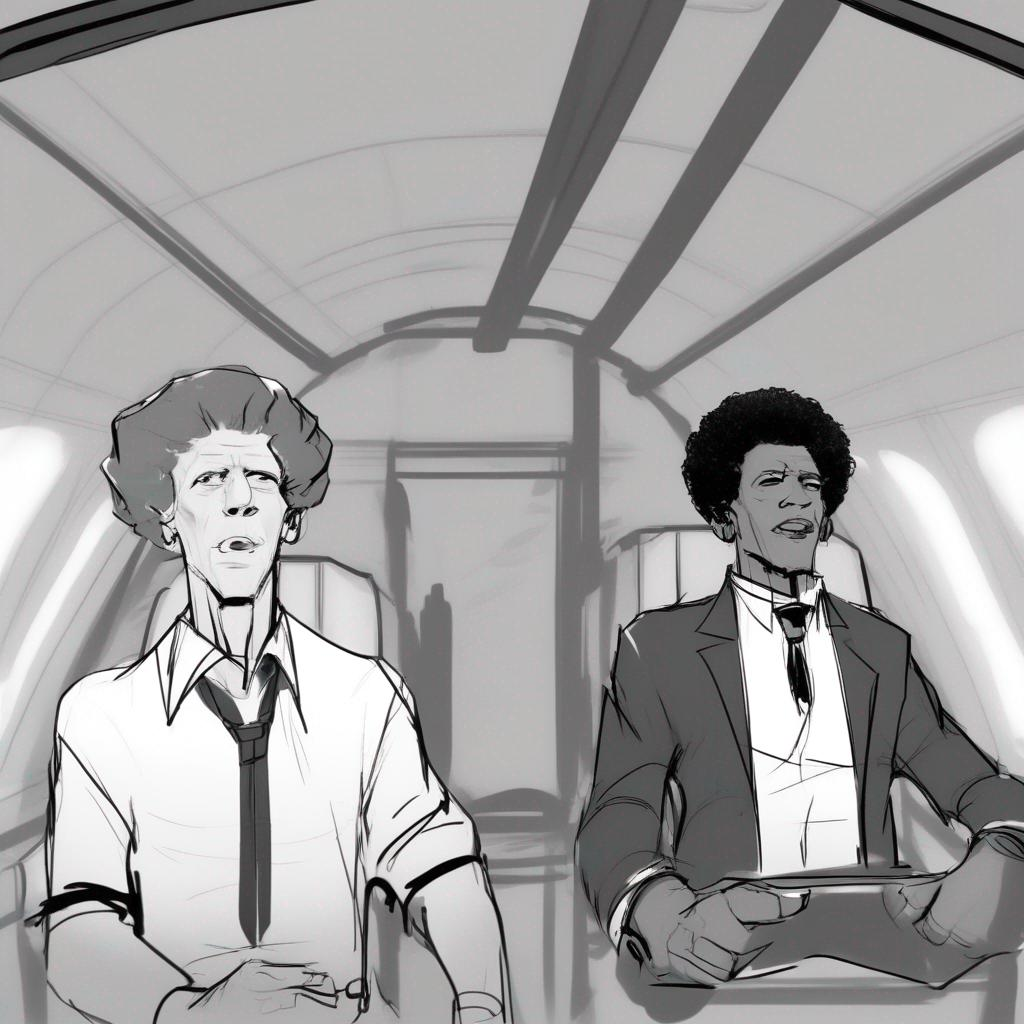
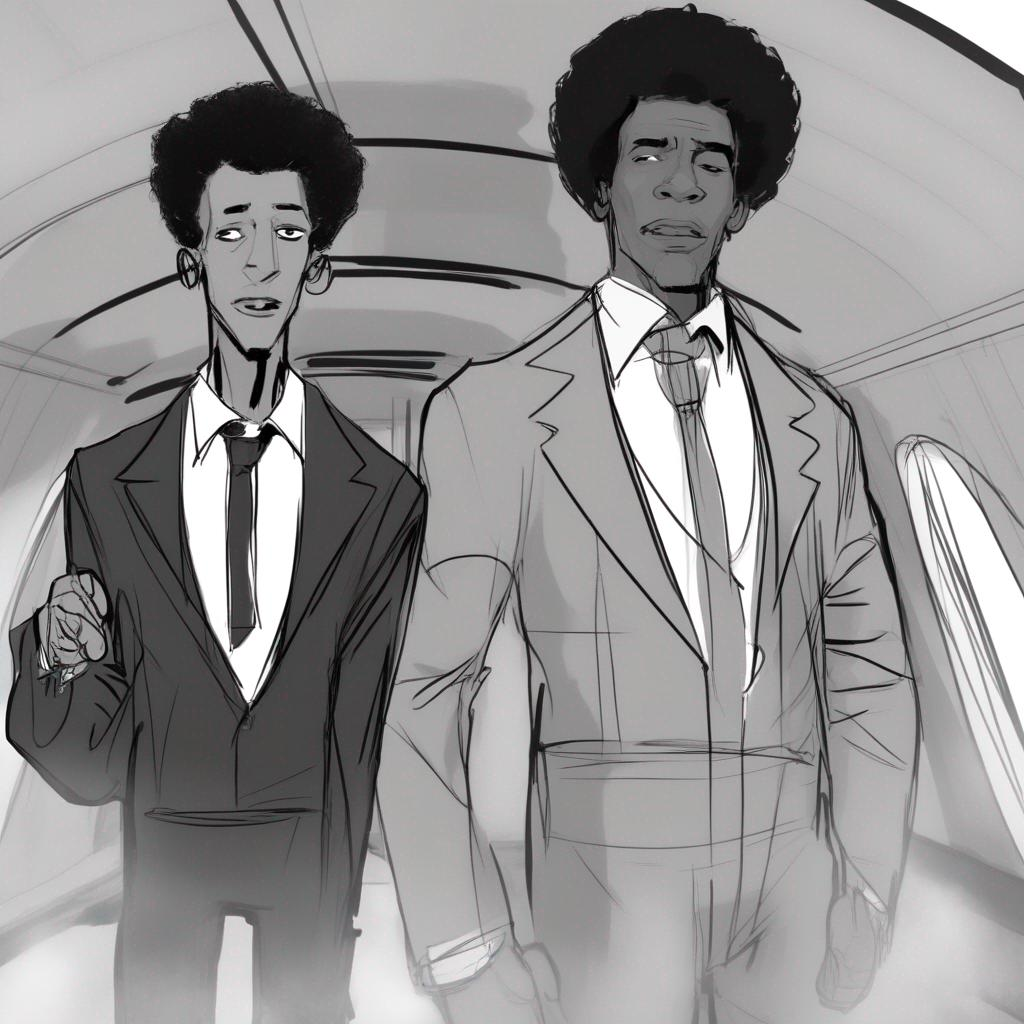
asldfjas

diff --git a/frontend/app/sketch/page.js b/frontend/app/sketch/page.js
@@ -1,9 +1,94 @@
+"use client";
 import React from 'react';
-import Head from 'next/head';
+import Button from '/components/ui/Button';
+import {useState, useEffect} from 'react';
+import CharacterPopup from '../../components/ui/CharacterPopup';
+import ScenarioPopup from '../../components/ui/ScenarioPopup';
+import MoonLoader from 'react-spinners/MoonLoader'
 
-export const metadata = {
-  title: "CineSketcher | Sketch",
-  description: "A simple storyboard sketcher!",
 
+
+
+const page = () => {
+  const [characterArray, setCharacterArray] = useState([]);
+  const [scenarioArray, setScenarioArray] = useState([]);
+  const [imageUrlArray, setImageUrlArray] = useState([]);
+  const [started, setStarted] = useState(false);
+  
+  const [characterPopup, setCharacterPopup] = useState(false);
+  const [scenarioPopup, setScenarioPopup] = useState(false);
+
+  const [characterIndex, setCharacterIndex] = useState(null);
+  const [scenarioIndex, setScenarioIndex] = useState(null);
+
+  const createNewCharacter = () => {
+    const character = {
+      index: characterArray.length,
+      name: "",
+      description: "",
+    }
+    setCharacterArray(prevCharacterArray => [...prevCharacterArray, character]);
+  }
+
+  const createNewScenario = () => {
+    const scenario = {
+      index: scenarioArray.length,
+      imageUrl: "",
+      description: "",
+    }
+    setScenarioArray(prevScenarioArray => [...prevScenarioArray, scenario]);
+  }
+
+  
+
+
+  return (
+    <>
+    <CharacterPopup show={characterPopup} onClose={()=>{setCharacterPopup(false); setCharacterIndex(null);}} characterArray={characterArray} characterIndex={characterIndex}/>
+    <ScenarioPopup show={scenarioPopup} onClose={()=>{setScenarioPopup(false); setScenarioIndex(null);}} scenarioArray={scenarioArray} scenarioIndex={scenarioIndex} imageArray={imageUrlArray}/>
+      <div className="bg-white min-h-screen p-5">
+        <header className="flex justify-between items-center bg-white text-dark">
+          <a href="/">
+          <h1 className="text-2xl">CineSketcher</h1>
+          </a>
+        </header>
+        <div className="w-full flex items-center flex-col">
+          <div className="mt-6 w-[1374px]">
+              <div className="text-black text-xl text-center">Characters</div>
+              <div className="text-gray text-sm text-center">Add characters and their visual descriptions!</div>
+              <div className="flex flex-row flex-wrap mt-8 w-full outline outline-gray outline-2 rounded-lg px-4 pb-8 space-x-4 space-y-8">
+                <div className={`mt-8 ml-4 h-[150px] w-[250px] bg-gray text-white rounded-lg flex justify-center items-center text-5xl cursor-pointer ${characterPopup||scenarioPopup ? "":"transform transition-transform duration-300 hover:scale-105"}`} onClick={()=>{createNewCharacter();setCharacterPopup(true);setScenarioPopup(false);setCharacterIndex(characterArray.length);}}>
+                  +
+                </div>
+                {characterArray.map((character, index) => (
+                  <div key={index} className={`h-[150px] w-[250px] outline outline-gray outline-2 rounded-lg p-4 text-black rounded-lg flex justify-center items-center text-lg cursor-pointer ${characterPopup||scenarioPopup ? "":"transform transition-transform duration-300 hover:scale-105"}`} onClick={()=>{setCharacterPopup(true);setScenarioPopup(false);setCharacterIndex(index);}}>
+
+                  </div>
+                ))}
+              </div>
+          </div>
+                {/* <MoonLoader color="#99947f" /> */}
+          <div className="mt-6 w-[1374px]">
+              <div className="text-black text-xl text-center">Storyboard</div>
+              <div className="text-gray text-sm text-center">Describe your scenes!</div>
+              <div className="flex flex-row flex-wrap mt-8 w-full outline outline-gray outline-2 rounded-lg px-4 pb-8 space-x-4 space-y-8">
+                <div className={`mt-8 ml-4 h-[250px] w-[250px] bg-gray text-white rounded-lg flex justify-center items-center text-5xl cursor-pointer ${characterPopup||scenarioPopup ? "":"transform transition-transform duration-300 hover:scale-105"} `} onClick={()=>{createNewScenario();setScenarioPopup(true);setScenarioIndex(characterArray.length);setCharacterPopup(false);}}>
+                  +
+                </div>
+                {scenarioArray.map((scenario, index) => (
+                  <div key={index}>
+                    <div className={`h-[250px] w-[250px] outline outline-gray outline-2 rounded-lg p-4 text-black rounded-lg flex justify-center items-center text-lg cursor-pointer ${characterPopup||scenarioPopup ? "":"transform transition-transform duration-300 hover:scale-105"}`} onClick={()=>{setScenarioPopup(true);setScenarioIndex(index);setCharacterPopup(false);}}>
+
+                    </div>
+                  </div>
+                ))}
+              </div>
+          </div>
+        </div>
+        
+      </div>
+    </>
+  );
 };
 
+export default page;

diff --git a/frontend/components/ui/ScenarioPopup.js b/frontend/components/ui/ScenarioPopup.js
@@ -1,0 +1,80 @@
+"use client";
+import React, { useEffect, useState } from 'react';
+import Button from '/components/ui/Button';
+
+const  ScenarioPopup = ({ show, onClose, scenarioArray, ScenarioIndex, imageArray }) => {
+    const [showPopUp, setShowPopup] = useState(show);
+    const [animate, setAnimate] = useState(false);
+
+    useEffect(() => {
+        let animationTimeout;
+        if (show) {
+        setShowPopup(true);
+        animationTimeout = setTimeout(() => setAnimate(true), 10);
+        } else {
+        setAnimate(false);
+        animationTimeout = setTimeout(() => {
+            setShowPopup(false);
+        }, 300);
+        }
+    
+        return () => {
+        clearTimeout(animationTimeout);
+        };
+    }, [show]);
+    
+
+    const handleClose = (event) => {
+        if (event.target.id === 'popupBackground') {
+        setAnimate(false);
+        setTimeout(() => {
+            setShowPopup(false);
+            if (onClose) {
+            onClose();
+            }
+        }, 300);
+        }
+    };
+
+    const backgroundStyle = {
+        transition: 'opacity 300ms ease-in-out',
+        opacity: animate ? 1 : 0,
+    };
+
+    const modalStyle = {
+        transition: 'transform 300ms ease-in-out',
+        transform: animate ? 'translateY(0)' : 'translateY(-100%)',
+    };
+
+    return (
+        <>
+        {showPopUp &&
+        <div id="popupBackground" onClick={handleClose} style={backgroundStyle} className="fixed inset-0 bg-dark bg-opacity-75 flex justify-center items-center backdrop-filter backdrop-blur-sm">
+                <div style={modalStyle} className="bg-white p-4 w-[700px] rounded shadow-xl" onClick={e => e.stopPropagation()}>
+                    <h2 className="text-dark text-lg font-bold mb-4">Scenario</h2>
+                    <div className="space-y-4">
+                        <div>
+                        <label className="text-gray block mb-2">Character Name</label>
+                        <input
+                            type="text"
+                            className="w-full px-4 py-2 rounded border border-gray focus:outline-none focus:border-dark text-gray"
+                        />
+                        </div>
+                        <div>
+                        <label htmlFor="password" className="text-gray block mb-2">Character Description</label>
+                        <textarea
+                            type="text"
+                            className="w-full px-4 py-2 rounded border border-gray focus:outline-none focus:border-dark text-gray"
+                        />
+                        </div>
+                        
+                        <Button text="generate" classes="w-full text-base" />
+                    </div>
+                </div>
+        </div>
+        }
+        </>
+    );
+};
+
+export default ScenarioPopup;

diff --git a/frontend/components/ui/CharacterPopup.js b/frontend/components/ui/CharacterPopup.js
@@ -1,0 +1,80 @@
+"use client";
+import React, { useEffect, useState } from 'react';
+import Button from '/components/ui/Button';
+
+const  CharacterPopup = ({ show, onClose, characterArray, characterIndex }) => {
+    const [showPopUp, setShowPopup] = useState(show);
+    const [animate, setAnimate] = useState(false);
+
+    useEffect(() => {
+        let animationTimeout;
+        if (show) {
+        setShowPopup(true);
+        animationTimeout = setTimeout(() => setAnimate(true), 10);
+        } else {
+        setAnimate(false);
+        animationTimeout = setTimeout(() => {
+            setShowPopup(false);
+        }, 300);
+        }
+    
+        return () => {
+        clearTimeout(animationTimeout);
+        };
+    }, [show]);
+    
+
+    const handleClose = (event) => {
+        if (event.target.id === 'popupBackground') {
+        setAnimate(false);
+        setTimeout(() => {
+            setShowPopup(false);
+            if (onClose) {
+            onClose();
+            }
+        }, 300);
+        }
+    };
+
+    const backgroundStyle = {
+        transition: 'opacity 300ms ease-in-out',
+        opacity: animate ? 1 : 0,
+    };
+
+    const modalStyle = {
+        transition: 'transform 300ms ease-in-out',
+        transform: animate ? 'translateY(0)' : 'translateY(-100%)',
+    };
+
+    return (
+        <>
+        {showPopUp &&
+        <div id="popupBackground" onClick={handleClose} style={backgroundStyle} className="fixed inset-0 bg-dark bg-opacity-75 flex justify-center items-center backdrop-filter backdrop-blur-sm">
+                <div style={modalStyle} className="bg-white p-4 w-[500px] rounded shadow-xl" onClick={e => e.stopPropagation()}>
+                    <h2 className="text-dark text-lg font-bold mb-4">Character Info</h2>
+                    <form className="space-y-4">
+                        <div>
+                        <label className="text-gray block mb-2">Character Name</label>
+                        <input
+                            type="text"
+                            className="w-full px-4 py-2 rounded border border-gray focus:outline-none focus:border-dark text-gray"
+                        />
+                        </div>
+                        <div>
+                        <label htmlFor="password" className="text-gray block mb-2">Character Description</label>
+                        <textarea
+                            type="text"
+                            className="w-full px-4 py-2 rounded border border-gray focus:outline-none focus:border-dark text-gray"
+                        />
+                        </div>
+                        
+                        <Button text="Submit" classes="w-full text-base" />
+                    </form>
+                </div>
+        </div>
+        }
+        </>
+    );
+};
+
+export default CharacterPopup;

diff --git a/frontend/app/page.js b/frontend/app/page.js
@@ -2,23 +2,17 @@
 import React from 'react';
 import Typewriter from '/components/misc/Typewriter';
 import Button from '/components/ui/Button';
-import Login from '/components/ui/Login';
-import {useState} from 'react';
 
 
 
 const page = () => {
-  const [showLogin, setShowLogin] = useState(false);
-  const closePopup = () => {
-    setShowLogin(false);
-  }
   return (
     <>
-      <Login show={showLogin} onClose={closePopup}/>
       <div className="bg-white min-h-screen">
         <header className="flex justify-between items-center p-5 bg-white text-dark">
-          <h1 className="text-2xl">CineSketcher</h1>
-          <Button text="Login" classes="text-base" onClick={() => {setShowLogin(true)}}/>
+          <a href="/">
+            <h1 className="text-2xl">CineSketcher</h1>
+          </a>
         </header>
         
         <div className="flex justify-center flex-col items-center flex-wrap">
@@ -36,7 +30,9 @@ const page = () => {
 
         </div>
         <div className="flex justify-center my-10">
-          <Button text="Start Sketching" classes="text-lg" onClick={() => {setShowLogin(true)}}/>
+          <a href="/sketch">
+            <Button text="Start Sketching" classes="text-lg" onClick={() => {}}/>
+          </a>
         </div>
       </div>
     </>

diff --git a/frontend/app/sketch/layout.js b/frontend/app/sketch/layout.js
@@ -1,0 +1,25 @@
+import { Roboto_Mono } from "next/font/google";
+import "../globals.css";
+
+export const metadata = {
+  title: "CineSketcher | Sketch",
+  description: "A simple storyboard sketcher!",
+
+};
+
+const roboto = Roboto_Mono({
+  weight: ['400', '700'],
+  style: ['normal', 'italic'],
+  subsets: ['latin'],
+  display: 'swap',
+})
+
+export default function RootLayout({ children }) {
+  return (
+    <html lang="en">
+      <body className={roboto.className}>
+        {children}
+        </body>
+    </html>
+  );
+}

diff --git a/frontend/components/misc/Typewriter.js b/frontend/components/misc/Typewriter.js
@@ -17,7 +17,6 @@ const Typewriter = ({ text, delay, classes }) => {
     }
   }, [currentIndex, delay, text]);
 
-  // Typing logic goes here
 
   return <div className={`${classes}`}>{currentText}</div>;
 };

diff --git a/frontend/tailwind.config.js b/frontend/tailwind.config.js
@@ -1,5 +1,6 @@
 /** @type {import('tailwindcss').Config} */
 module.exports = {
+
   content: [
     "./pages/**/*.{js,ts,jsx,tsx,mdx}",
     "./components/**/*.{js,ts,jsx,tsx,mdx}",

diff --git a/pipeline/image_generation.py b/pipeline/image_generation.py
@@ -6,7 +6,7 @@ import io
 from PIL import Image
 
 character_descriptions = {"alex":"alex is a tall and skinny man who wears a tuxedo", "brandon":"brandon is an african american man with an afro"}
-scenario = "sketch of alex and brandon are flying a plane"
+scenario = "alex and brandon are flying a plane"
 
 def generate_string_from_character_descriptions(character_descriptions):
 	character_string = ""
@@ -19,10 +19,16 @@ def query(payload):
 	response = requests.post(API_URL, headers=headers, json=payload)
 	return response.content
 
-print(f"{scenario}. {generate_string_from_character_descriptions(character_descriptions)}")
+def insert_character_descriptions(character_descriptions, scenario):
+    
+    for character, description in character_descriptions.items():
+        scenario = scenario.replace(character, f"{character.capitalize()}, {description}")
+    return scenario
+
+print(f"{insert_character_descriptions(character_descriptions, scenario)}")
 
 image_bytes = query({
-	"inputs": f"sketch of Alex, a tall and skinny white man who wears a tuxedo and Brandon, an african american man with an afro, wearing a t-shirt are piloting in the cockpit of a plane. No one else is in the scene.",
+	"inputs": f"{scenario}. {generate_string_from_character_descriptions(character_descriptions)}",
 })
 
 image = Image.open(io.BytesIO(image_bytes))
